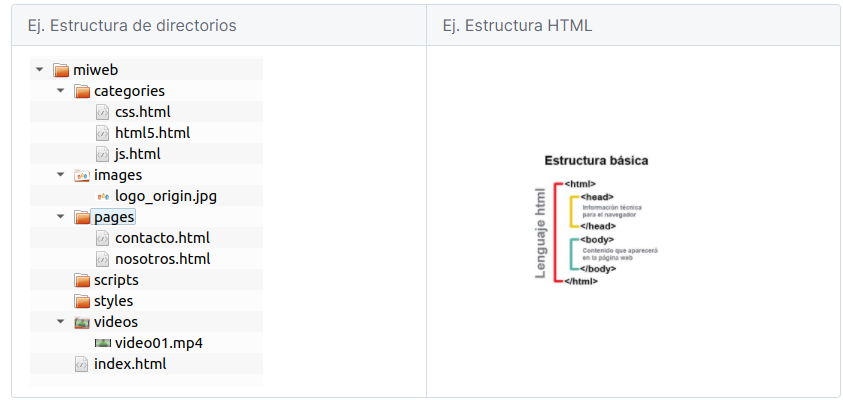
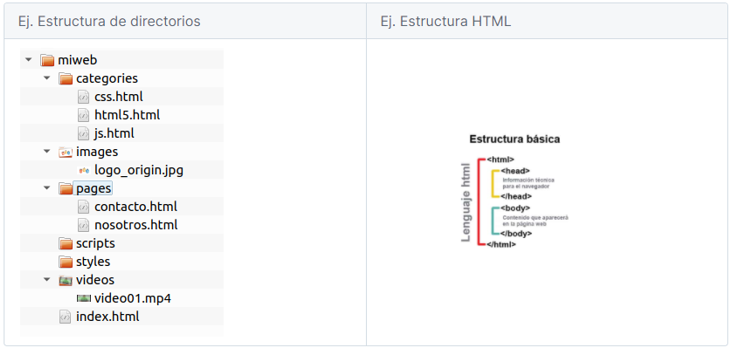
haz cambios e imagen

diff --git a/categories/html5.html b/categories/html5.html
@@ -153,10 +153,12 @@
 				<p>
 					Etiquetar cada parte de un documento web aporta información enriquecida al usuario, a los motores de búsqueda y a los navegadores.
 				</p>
-			
+				
+				<figure>
+					
+					<img src="../images/captura.png" title="captura" alt="imagen de directorios y html" width="733" height="352"/>			
+				</figure>
                 	
-
-                
 				<p>
 					<strong>HTML</strong> es el componente más básico de la Web. Define el significado y la estructura del contenido web. Además de HTML, generalmente se utilizan otras tecnologías para describir la apariencia/presentación de una página web (CSS) o la funcionalidad/comportamiento (JavaScript).	
 				</p>
